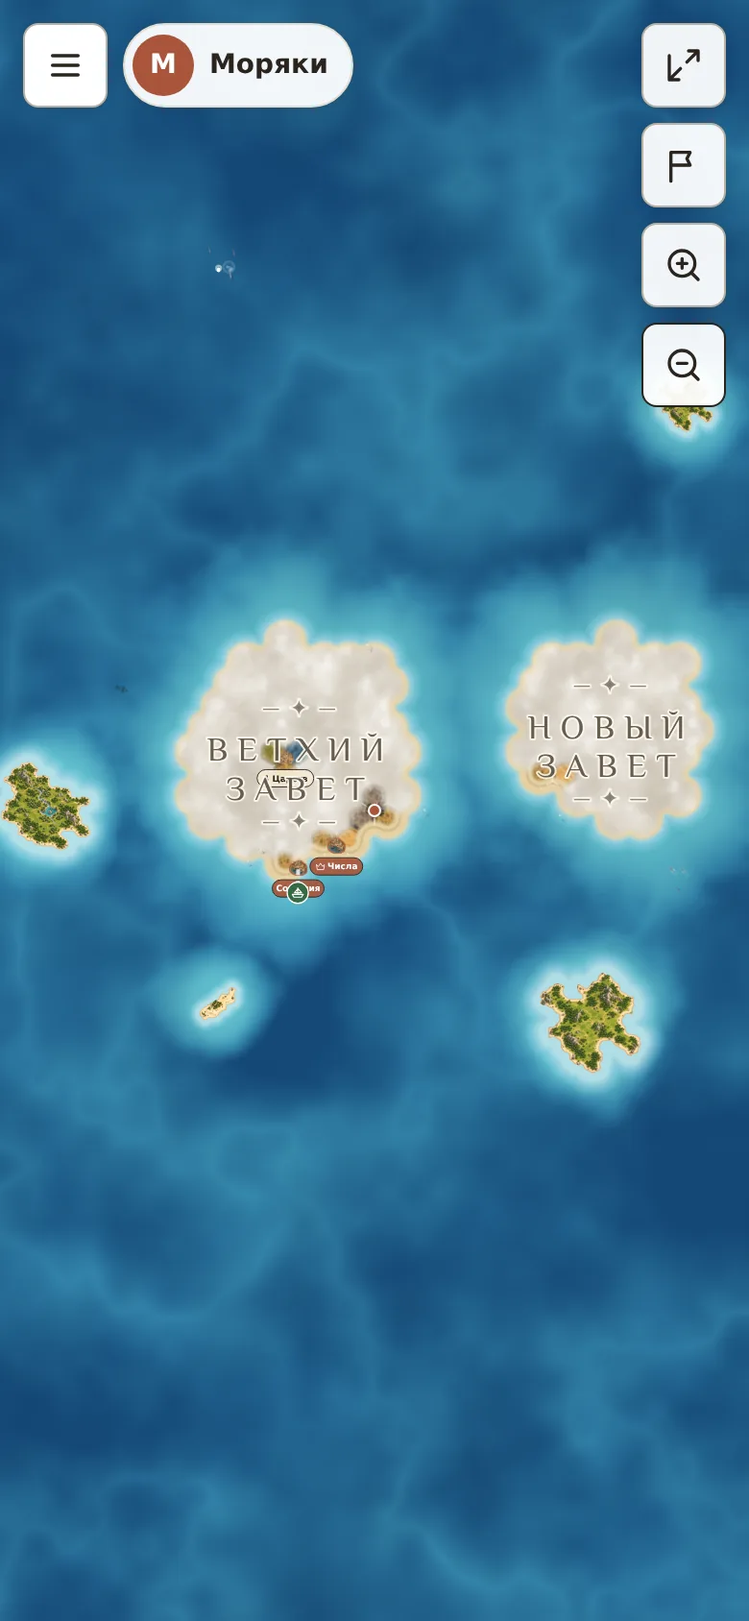
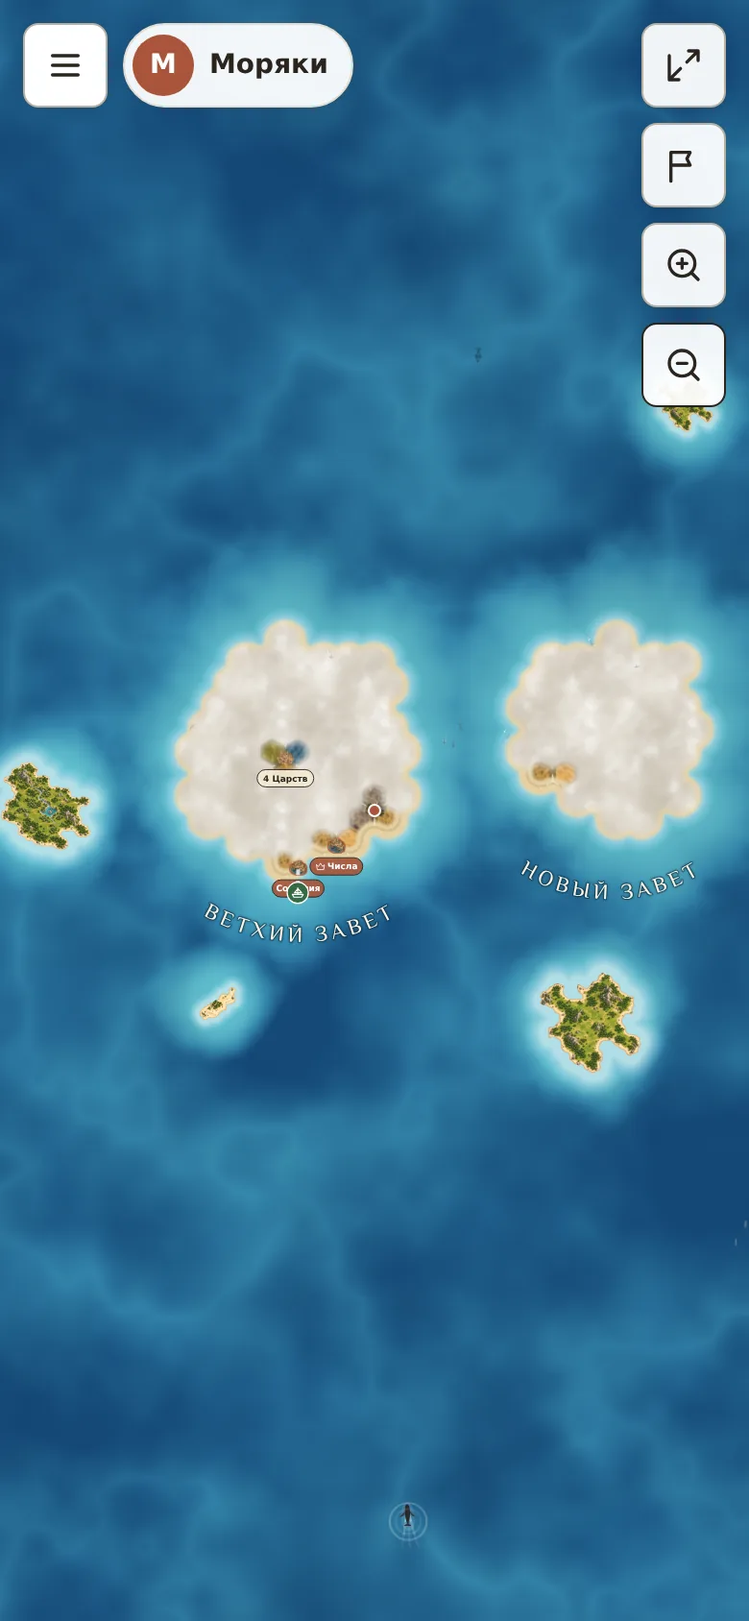
Экран игры администратора: карта во весь экран, разделы — кнопки, содержимое — попап над картой
- GamePage: карта заполняет экран (без шапки сайта), слева (на телефоне —
  внизу) док с кнопками Обзор / Команды / Дела / Проверка / Настройки со
  счётчиками; раздел открывается попапом (Sheet lg) над картой; раздел в hash;
  черновик без карты сразу открывает «Обзор».
- AdminMap fullscreen: «чьими глазами» и обозначения поверх карты; компактная
  история ходов внизу.
- Инструкция «Как играть?»: текст и скриншоты обновлены (правило свежести),
  скрипт скриншотов переведён на новый экран. Документация.

Claude-Session: https://claude.ai/code/session_01GYZTpVpHB6EzyvMrXyiWEP

diff --git a/apps/web/src/pages/GamePage.tsx b/apps/web/src/pages/GamePage.tsx
@@ -1,5 +1,5 @@
 import { useCallback, useEffect, useMemo, useRef, useState } from "react";
-import { useLocation, useNavigate, useParams } from "react-router-dom";
+import { Link, useLocation, useNavigate, useParams } from "react-router-dom";
 import { api, ApiError, type MapEdgeDto, type MapHexDto, type MapNodeDto } from "../lib/api";
 import { AdminMap, type BattleProgress, type CityProgress, type TeamProgress } from "./AdminMap";
 import { Timeline, collectMoves, progressAt } from "./Timeline";
@@ -17,7 +17,7 @@ import { RecipientsBlock } from "./RecipientsBlock";
 import { Icon } from "../components/Icon";
 import { Back } from "../components/Back";
 import { Chip } from "../components/Chip";
-import { Tabs } from "../components/Tabs";
+import { Sheet } from "../components/Sheet";
 import { EmptyState, ErrorState, LoadingState } from "../components/State";
 import { PushToggle } from "../components/PushToggle";
 import { ActionMenu } from "../components/ActionMenu";
@@ -31,16 +31,19 @@ const TABS: Tab[] = ["overview", "map", "teams", "deeds", "review", "settings"];
 type Progress = { teams: TeamProgress[]; startedAt: string | null; cities: CityProgress[]; battles: BattleProgress[] };
 
 /**
- * Страница игры для администратора: шапка (название, статус) и шесть вкладок.
- * Вкладка хранится в hash (#teams), чтобы переживать перезагрузку и ссылки.
+ * Страница игры для администратора: карта во весь экран, разделы (обзор, команды, дела, проверка, настройки) —
+ * кнопки сбоку (на телефоне — снизу), содержимое раздела открывается попапом над картой (решение владельца 15.09).
+ * Раздел хранится в hash (#teams), чтобы переживать перезагрузку и ссылки.
  */
 export function GamePage() {
   const { id = "" } = useParams();
   const location = useLocation();
   const navigate = useNavigate();
   const { confirm, notify } = useUi();
-  const tab: Tab = (TABS as string[]).includes(location.hash.slice(1)) ? (location.hash.slice(1) as Tab) : "overview";
-  const setTab = (next: Tab) => navigate({ hash: next === "overview" ? "" : next }, { replace: true });
+  // Экран — карта во весь экран (решение владельца 15.09); раздел из hash (#teams) открывается попапом над картой.
+  const tab: Tab = (TABS as string[]).includes(location.hash.slice(1)) ? (location.hash.slice(1) as Tab) : "map";
+  const setTab = (next: Tab) => navigate({ hash: next === "map" ? "" : next }, { replace: true });
+  const [screenEl, setScreenEl] = useState<HTMLDivElement | null>(null);
 
   const [game, setGame] = useState<GameDto | null>(null);
   const [hexes, setHexes] = useState<MapHexDto[]>([]);
@@ -84,6 +87,9 @@ export function GamePage() {
 
   const loadAll = useCallback(() => { load().catch((e) => setError(e instanceof ApiError ? e.message : t("Ошибка сети"))); void loadProgress(); }, [load, loadProgress]);
   useEffect(() => { loadAll(); }, [loadAll]);
+  // Черновик без карты: сразу показать чек-лист подготовки (обзор), карту всё равно ещё смотреть не на что.
+  const autoOpened = useRef(false);
+  useEffect(() => { if (game && game.status === "DRAFT" && hexes.length === 0 && !autoOpened.current && !location.hash) { autoOpened.current = true; setTab("overview"); } }, [game, hexes.length]); // eslint-disable-line react-hooks/exhaustive-deps
   useEffect(() => { if (game) void loadCounts(game.status); }, [game?.status, version, loadCounts]); // eslint-disable-line react-hooks/exhaustive-deps
 
   async function generate() {
@@ -119,99 +125,109 @@ export function GamePage() {
   const hasMap = hexes.length > 0;
   const refresh = () => { void load(); void loadProgress(); };
 
+  const sections: Array<{ key: Tab; label: string; icon: string; count?: number; hot?: boolean }> = [
+    { key: "overview", label: t("Обзор"), icon: "crown" },
+    { key: "teams", label: t("Команды"), icon: "users", count: counts.teams },
+    { key: "deeds", label: t("Дела"), icon: "scroll", count: counts.deeds },
+    { key: "review", label: t("Проверка"), icon: "check", count: reviewCount, hot: true },
+    { key: "settings", label: t("Настройки"), icon: "settings" },
+  ];
+  const open = tab === "map" ? null : tab;
+  const closePopup = () => setTab("map");
+  const titleOf = sections.find((s) => s.key === open);
+
   return (
-    <>
-      <Back to="/" label={t("Мои игры")} />
-      <div className="page-head">
-        <h1>
-          {game.name}
-          <Chip tone={draft ? "warn" : active ? "ok" : "neutral"}>{draft ? t("черновик") : active ? t("идёт") : t("завершена")}</Chip>
-        </h1>
-        {canDelete && <ActionMenu label={t("Ещё")} items={[{ label: t("Удалить игру"), icon: "trash", danger: true, onSelect: () => void removeGame() }]} />}
-      </div>
-
-      <Tabs<Tab>
-        stacked sticky ariaLabel={t("Разделы игры")} value={tab} onChange={setTab}
-        items={[
-          { key: "overview", label: t("Обзор"), icon: "crown" },
-          { key: "map", label: t("Карта"), icon: "map" },
-          { key: "teams", label: t("Команды"), icon: "users", count: counts.teams },
-          { key: "deeds", label: t("Дела"), icon: "scroll", count: counts.deeds },
-          { key: "review", label: t("Проверка"), icon: "check", count: reviewCount, hot: true },
-          { key: "settings", label: t("Настройки"), icon: "settings" },
-        ]}
-      />
-
-      {tab === "overview" && (
-        <div key="overview">
-          {draft && (
-            <>
-              <StartBlock
-                gameId={game.id} version={version} onStarted={refresh}
-                hasMap={hasMap} nodeCount={nodes.length} cityCount={nodes.filter((n) => n.kind === "CITY").length} stats={stats}
-                onGenerate={() => void generate()} generating={busy} generateError={genError}
-                teams={counts.teams} teamCount={game.teamCount} deeds={counts.deeds} recipients={counts.recipients}
-                goTo={setTab} goToRecipients={() => recipientsRef.current?.scrollIntoView({ behavior: "smooth", block: "start" })}
-              />
-              <div ref={recipientsRef}><RecipientsBlock gameId={game.id} status={game.status} version={version} /></div>
-            </>
-          )}
-          {active && (
-            <>
-              <div className="card">
-                <div className="card-head"><h2><span className="ico"><Icon name="check" /></span>{t("Сейчас")}</h2></div>
-                <div className="summary-tiles">
-                  <a href="#review" onClick={(e) => { e.preventDefault(); setTab("review"); }}>
-                    <span className={"sum-value" + (reviewCount ? " hot" : "")}>{reviewCount}</span>
-                    <span className="sum-label"><Icon name="check" />{t("ждёт проверки")}</span>
-                  </a>
-                  <a href="#review" onClick={(e) => { e.preventDefault(); setTab("review"); }}>
-                    <span className="sum-value">{trials}</span>
-                    <span className="sum-label"><Icon name="wave" />{t("идёт испытаний")}</span>
-                  </a>
-                </div>
-              </div>
-              <FinishBlock gameId={game.id} status={game.status} version={version} onChanged={refresh} between={<RecipientsBlock gameId={game.id} status={game.status} version={version} />} />
-            </>
-          )}
-          {game.status === "FINISHED" && <FinishBlock gameId={game.id} status={game.status} version={version} onChanged={refresh} />}
-        </div>
-      )}
-
-      {tab === "map" && (
-        <div key="map">
-          {hasMap ? (
-            <div className="card map-card">
-              <AdminMap gameId={game.id} hexes={hexes} nodes={nodes} edges={edges} progress={shown} cities={shownCities} battles={at ? [] : progress?.battles ?? null} version={version} onReview={() => setTab("review")} />
-              {progress?.startedAt && <Timeline moves={moves} startedAt={progress.startedAt} at={at} onChange={setAt} />}
-            </div>
-          ) : (
+    <div className="admin-screen" ref={setScreenEl}>
+      <div className="admin-map-area">
+        {hasMap ? (
+          <AdminMap fullscreen gameId={game.id} hexes={hexes} nodes={nodes} edges={edges} progress={shown} cities={shownCities} battles={at ? [] : progress?.battles ?? null} version={version} onReview={() => setTab("review")} />
+        ) : (
+          <div className="admin-empty">
             <div className="card">
               <EmptyState icon="map" text={draft ? t("Карта ещё не создана.") : t("Карты нет.")} action={draft ? <button type="button" onClick={() => void generate()} disabled={busy}><Icon name="refresh" />{t("Сгенерировать карту")}</button> : undefined} />
               {genError && <p className="error">{genError}</p>}
             </div>
-          )}
-        </div>
-      )}
+          </div>
+        )}
+        {hasMap && progress?.startedAt && <div className="admin-timeline"><Timeline moves={moves} startedAt={progress.startedAt} at={at} onChange={setAt} /></div>}
+      </div>
 
-      {tab === "teams" && <div key="teams"><TeamsBlock gameId={game.id} teamCount={game.teamCount} status={game.status} version={version} onChange={bump} goToSettings={() => setTab("settings")} /></div>}
-      {tab === "deeds" && <div key="deeds"><DeedsBlock gameId={game.id} version={version} onChange={bump} /></div>}
-      {tab === "review" && (active ? (
-        <div key="review">
-          <SubmissionsBlock gameId={game.id} version={version} currency={game.settings.donationCurrency} onDecided={() => { void loadProgress(); bump(); }} />
-          <BattlesBlock gameId={game.id} version={version} onDecided={() => { void loadProgress(); bump(); }} />
-          <PassagesBlock gameId={game.id} version={version} />
+      <div className="admin-top">
+        <Link to="/" className="btn secondary icon hud-btn" aria-label={t("Мои игры")} title={t("Мои игры")}><Icon name="back" /></Link>
+        <div className="admin-title" title={game.name}>
+          <span className="name">{game.name}</span>
+          <Chip tone={draft ? "warn" : active ? "ok" : "neutral"}>{draft ? t("черновик") : active ? t("идёт") : t("завершена")}</Chip>
         </div>
-      ) : (
-        <div className="card"><EmptyState icon="check" text={draft ? t("Появится после старта игры.") : t("Игра завершена: проверять больше нечего.")} /></div>
-      ))}
-      {tab === "settings" && (
-        <div key="settings">
-          <SettingsBlock key={game.teamCount + ":" + game.name} game={game} onSaved={() => { void load(); bump(); }} />
-          <AdminsBlock gameId={game.id} version={version} />
-          <PushToggle compact />
-        </div>
+        {canDelete && <ActionMenu label={t("Ещё")} items={[{ label: t("Удалить игру"), icon: "trash", danger: true, onSelect: () => void removeGame() }]} />}
+      </div>
+
+      <nav className="admin-dock" aria-label={t("Разделы игры")}>
+        {sections.map((s) => (
+          <button key={s.key} type="button" className={"dock-btn" + (open === s.key ? " on" : "")} aria-pressed={open === s.key} onClick={() => setTab(open === s.key ? "map" : s.key)}>
+            <Icon name={s.icon} />
+            <span className="lbl">{s.label}</span>
+            {s.count ? <span className={"badge" + (s.hot ? " hot" : "")}>{s.count}</span> : null}
+          </button>
+        ))}
+      </nav>
+
+      {open && screenEl && (
+        <Sheet size="lg" container={screenEl} className="admin-popup" onClose={closePopup} head={<h2 className="row"><span className="ico"><Icon name={titleOf?.icon ?? "map"} /></span>{titleOf?.label}</h2>}>
+          {open === "overview" && (
+            <div key="overview">
+              {draft && (
+                <>
+                  <StartBlock
+                    gameId={game.id} version={version} onStarted={refresh}
+                    hasMap={hasMap} nodeCount={nodes.length} cityCount={nodes.filter((n) => n.kind === "CITY").length} stats={stats}
+                    onGenerate={() => void generate()} generating={busy} generateError={genError}
+                    teams={counts.teams} teamCount={game.teamCount} deeds={counts.deeds} recipients={counts.recipients}
+                    goTo={setTab} goToRecipients={() => recipientsRef.current?.scrollIntoView({ behavior: "smooth", block: "start" })}
+                  />
+                  <div ref={recipientsRef}><RecipientsBlock gameId={game.id} status={game.status} version={version} /></div>
+                </>
+              )}
+              {active && (
+                <>
+                  <div className="card">
+                    <div className="card-head"><h2><span className="ico"><Icon name="check" /></span>{t("Сейчас")}</h2></div>
+                    <div className="summary-tiles">
+                      <a href="#review" onClick={(e) => { e.preventDefault(); setTab("review"); }}>
+                        <span className={"sum-value" + (reviewCount ? " hot" : "")}>{reviewCount}</span>
+                        <span className="sum-label"><Icon name="check" />{t("ждёт проверки")}</span>
+                      </a>
+                      <a href="#review" onClick={(e) => { e.preventDefault(); setTab("review"); }}>
+                        <span className="sum-value">{trials}</span>
+                        <span className="sum-label"><Icon name="wave" />{t("идёт испытаний")}</span>
+                      </a>
+                    </div>
+                  </div>
+                  <FinishBlock gameId={game.id} status={game.status} version={version} onChanged={refresh} between={<RecipientsBlock gameId={game.id} status={game.status} version={version} />} />
+                </>
+              )}
+              {game.status === "FINISHED" && <FinishBlock gameId={game.id} status={game.status} version={version} onChanged={refresh} />}
+            </div>
+          )}
+          {open === "teams" && <div key="teams"><TeamsBlock gameId={game.id} teamCount={game.teamCount} status={game.status} version={version} onChange={bump} goToSettings={() => setTab("settings")} /></div>}
+          {open === "deeds" && <div key="deeds"><DeedsBlock gameId={game.id} version={version} onChange={bump} /></div>}
+          {open === "review" && (active ? (
+            <div key="review">
+              <SubmissionsBlock gameId={game.id} version={version} currency={game.settings.donationCurrency} onDecided={() => { void loadProgress(); bump(); }} />
+              <BattlesBlock gameId={game.id} version={version} onDecided={() => { void loadProgress(); bump(); }} />
+              <PassagesBlock gameId={game.id} version={version} />
+            </div>
+          ) : (
+            <div className="card"><EmptyState icon="check" text={draft ? t("Появится после старта игры.") : t("Игра завершена: проверять больше нечего.")} /></div>
+          ))}
+          {open === "settings" && (
+            <div key="settings">
+              <SettingsBlock key={game.teamCount + ":" + game.name} game={game} onSaved={() => { void load(); bump(); }} />
+              <AdminsBlock gameId={game.id} version={version} />
+              <PushToggle compact />
+            </div>
+          )}
+        </Sheet>
       )}
-    </>
+    </div>
   );
 }

diff --git a/apps/web/src/styles/admin.css b/apps/web/src/styles/admin.css
@@ -202,3 +202,41 @@ details.legend .items span { display: inline-flex; align-items: center; gap: var
 /* Книги дела: набранные книги — снимаемые фишки. */
 .chips { display: flex; flex-wrap: wrap; gap: var(--sp-2); }
 .chips .chip-btn { display: inline-flex; align-items: center; gap: var(--sp-1); min-height: 30px; padding: 0 var(--sp-3); border-radius: var(--r-full); border: 1px solid var(--border); background: var(--surface); color: var(--text); font-size: var(--fs-sm); font-weight: 500; }
+
+/* Экран игры администратора: карта во весь экран, разделы — кнопки сбоку (на телефоне снизу), содержимое — попап над картой. */
+.admin-screen { position: fixed; inset: 0; background: var(--map-bg); overscroll-behavior: none; touch-action: none; }
+.admin-map-area { position: absolute; inset: 0; }
+.admin-map.full { position: absolute; inset: 0; }
+.admin-map.full .mapwrap { position: absolute; inset: 0; height: auto; min-height: 0; border: 0; border-radius: 0; }
+.admin-map.full .view-as { position: absolute; left: 50%; top: calc(var(--sp-3) + var(--safe-top) + 60px); transform: translateX(-50%); z-index: 5; max-width: min(70vw, 720px); padding: var(--sp-1); background: color-mix(in srgb, var(--surface) 88%, transparent); border-radius: var(--r-full); box-shadow: var(--shadow-1); }
+.admin-map.full .view-as-hint { position: absolute; left: 50%; transform: translateX(-50%); top: calc(var(--sp-3) + var(--safe-top) + 108px); z-index: 5; margin: 0; padding: var(--sp-1) var(--sp-3); background: color-mix(in srgb, var(--surface) 90%, transparent); border-radius: var(--r-sm); max-width: min(80vw, 560px); }
+.admin-map.full details.legend { position: absolute; left: calc(var(--sp-3) + var(--safe-left) + 76px); bottom: calc(var(--sp-3) + var(--safe-bottom)); z-index: 5; margin: 0; padding: 0 var(--sp-3); background: color-mix(in srgb, var(--surface) 90%, transparent); border-radius: var(--r-sm); box-shadow: var(--shadow-1); max-width: min(60vw, 520px); }
+.admin-map.full details.legend .items { padding-bottom: var(--sp-2); }
+.admin-empty { position: absolute; inset: 0; display: flex; align-items: center; justify-content: center; padding: var(--sp-4); }
+.admin-empty .card { max-width: 420px; width: 100%; }
+.admin-timeline { position: absolute; left: 50%; transform: translateX(-50%); bottom: calc(var(--sp-3) + var(--safe-bottom)); z-index: 5; width: min(92vw, 440px); padding: var(--sp-2) var(--sp-3); background: color-mix(in srgb, var(--surface) 92%, transparent); border-radius: var(--r-md); box-shadow: var(--shadow-1); }
+.admin-timeline .timeline { margin-top: 0; gap: var(--sp-1); }
+.admin-timeline .timeline h3, .admin-timeline .timeline .row.between { display: none; }
+.admin-timeline .timeline .tl-now { padding: var(--sp-1) var(--sp-2); font-size: var(--fs-sm); }
+.admin-top { position: absolute; left: calc(var(--sp-3) + var(--safe-left)); top: calc(var(--sp-3) + var(--safe-top)); z-index: 6; display: flex; align-items: center; gap: var(--sp-2); max-width: calc(100% - 140px); }
+.admin-title { display: flex; align-items: center; gap: var(--sp-2); min-height: var(--touch); min-width: 0; padding: 0 var(--sp-3); border-radius: var(--r-full); background: color-mix(in srgb, var(--surface) 94%, transparent); box-shadow: var(--shadow-1); font-weight: 700; }
+.admin-title .name { overflow: hidden; text-overflow: ellipsis; white-space: nowrap; }
+.admin-dock { position: absolute; z-index: 6; display: flex; gap: var(--sp-2); left: calc(var(--sp-3) + var(--safe-left)); top: calc(var(--sp-3) + var(--safe-top) + 60px); flex-direction: column; }
+.dock-btn { position: relative; display: flex; flex-direction: column; align-items: center; justify-content: center; gap: 3px; width: 64px; min-height: 58px; padding: 6px 4px; border-radius: 16px; border: 1px solid transparent; background: color-mix(in srgb, var(--surface) 94%, transparent); color: var(--text); box-shadow: var(--shadow-1); font: 500 11px/1.1 var(--font); }
+.dock-btn .i { width: 22px; height: 22px; color: var(--accent-ink); }
+.dock-btn:hover { background: var(--surface); }
+.dock-btn.on { background: var(--accent-ink); color: var(--on-accent); }
+.dock-btn.on .i { color: var(--on-accent); }
+.dock-btn .badge { position: absolute; top: -5px; right: -5px; min-width: 20px; height: 20px; padding: 0 6px; border-radius: 10px; background: var(--surface-2, var(--surface)); border: 1px solid var(--border); color: var(--text); font: 700 11px/18px var(--font); text-align: center; }
+.dock-btn .badge.hot { background: var(--danger, #b3402a); border-color: transparent; color: #fff; }
+.admin-popup.overlay-backdrop { z-index: 8; }
+.admin-popup .overlay-body .card { box-shadow: none; }
+@media (max-width: 767px) {
+  .admin-dock { top: auto; left: 50%; transform: translateX(-50%); bottom: calc(var(--sp-2) + var(--safe-bottom)); flex-direction: row; padding: var(--sp-1); background: color-mix(in srgb, var(--surface) 90%, transparent); border-radius: 22px; box-shadow: var(--shadow-2); }
+  .dock-btn { width: 62px; min-height: 52px; box-shadow: none; background: transparent; }
+  .admin-timeline { bottom: calc(var(--sp-2) + var(--safe-bottom) + 76px); }
+  .admin-map.full details.legend { left: calc(var(--sp-3) + var(--safe-left)); bottom: calc(var(--sp-2) + var(--safe-bottom) + 76px); display: none; }
+  .admin-map.full .view-as { left: calc(var(--sp-3) + var(--safe-left)); transform: none; top: calc(var(--sp-3) + var(--safe-top) + 52px); max-width: calc(100vw - 110px); }
+  .admin-map.full .view-as-hint { left: calc(var(--sp-3) + var(--safe-left)); transform: none; top: calc(var(--sp-3) + var(--safe-top) + 100px); max-width: calc(100vw - 110px); }
+  .admin-top { max-width: calc(100% - 2 * var(--sp-3)); }
+}

diff --git a/apps/web/src/pages/AdminMap.tsx b/apps/web/src/pages/AdminMap.tsx
@@ -29,7 +29,7 @@ type TeamLite = { id: string; name: string; color: string };
  * Карта администратора: вся карта без тумана, города на перекрёстках, пройденные стороны цветами команд (половинками, если прошли двое).
  * Панель перекрёстка — Sheet поверх карты; тестовые действия свёрнуты внутри неё.
  */
-export function AdminMap({ gameId, hexes, nodes, edges, progress, cities, battles, version, onReview }: { gameId: string; hexes: MapHexDto[]; nodes: MapNodeDto[]; edges: MapEdgeDto[]; progress: TeamProgress[] | null; cities: CityProgress[] | null; battles: BattleProgress[] | null; version: number; onReview?: () => void }) {
+export function AdminMap({ gameId, hexes, nodes, edges, progress, cities, battles, version, onReview, fullscreen = false }: { /** Во весь экран (страница игры): карта заполняет контейнер, переключатель «чьими глазами» и легенда — поверх. */ fullscreen?: boolean; gameId: string; hexes: MapHexDto[]; nodes: MapNodeDto[]; edges: MapEdgeDto[]; progress: TeamProgress[] | null; cities: CityProgress[] | null; battles: BattleProgress[] | null; version: number; onReview?: () => void }) {
   const size = HEX_SIZE;
   const bounds = useMemo(() => (hexes.length ? fieldBounds(hexes, size) : null), [hexes, size]);
   const vp = useViewport(bounds);
@@ -75,10 +75,22 @@ export function AdminMap({ gameId, hexes, nodes, edges, progress, cities, battle
   }, [viewAs, gameId, version]);
   if (!bounds) return null;
   const viewedTeam = viewAs ? teamById.get(viewAs) : null;
+  const legend = (
+        <details className="legend">
+          <summary><Icon name="info" />{t("Обозначения")}<Icon name="chevron-down" /></summary>
+          <div className="items">
+            {progress?.map((tm) => <span key={tm.id}><i className="sw dot" style={{ ["--c" as string]: tm.color }} />{tm.name}</span>)}
+            <span><i className="sw line" />{t("пройденная сторона")}</span>
+            <span><i className="sw spot" />{t("открытый перекрёсток")}</span>
+            <span><i className="sw ring" />{t("город с владельцем")}</span>
+            <span><i className="sw ring bad" />{t("идёт испытание")}</span>
+          </div>
+        </details>
+  );
 
   return (
     <>
-      <div className="admin-map" ref={setWrapEl}>
+      <div className={"admin-map" + (fullscreen ? " full" : "")} ref={setWrapEl}>
         {progress && progress.length > 0 && (
           <div className="view-as" role="tablist" aria-label={t("Чьими глазами")}>
             <button type="button" role="tab" aria-selected={!viewAs} className={"chip-btn" + (!viewAs ? " on" : "")} onClick={() => setViewAs(null)}><Icon name="crown" />{t("Администратор")}</button>
@@ -182,17 +194,9 @@ export function AdminMap({ gameId, hexes, nodes, edges, progress, cities, battle
         {!viewAs && selected && wrapEl && (selected.kind === "CITY"
           ? <CitySheet gameId={gameId} node={selected} version={version} container={wrapEl} revealed={revealedBy.get(selected.key) ?? []} battle={battleAt.get(selected.key) ?? null} teamById={teamById} onClose={close} onReview={onReview} />
           : <NodeSheet gameId={gameId} node={selected} container={wrapEl} teams={progress ?? []} revealed={revealedBy.get(selected.key) ?? []} onClose={close} />)}
+        {fullscreen && legend}
       </div>
-      <details className="legend">
-        <summary><Icon name="info" />{t("Обозначения")}<Icon name="chevron-down" /></summary>
-        <div className="items">
-          {progress?.map((tm) => <span key={tm.id}><i className="sw dot" style={{ ["--c" as string]: tm.color }} />{tm.name}</span>)}
-          <span><i className="sw line" />{t("пройденная сторона")}</span>
-          <span><i className="sw spot" />{t("открытый перекрёсток")}</span>
-          <span><i className="sw ring" />{t("город с владельцем")}</span>
-          <span><i className="sw ring bad" />{t("идёт испытание")}</span>
-        </div>
-      </details>
+      {!fullscreen && legend}
     </>
   );
 }

diff --git a/apps/web/src/lib/en/player.ts b/apps/web/src/lib/en/player.ts
@@ -131,7 +131,8 @@ export const PLAYER: Record<string, string> = {
   "Меню команды: дела, испытания, положение команд, состав.": "Team menu: deeds, trials, standings, roster.",
   "Для администратора": "For the administrator",
   "Администратор создаёт игру, генерирует карту (можно сколько угодно раз, пока не понравится), создаёт команды и раздаёт ссылки-приглашения капитанам и участникам, заполняет набор дел (есть стандартный) и стартует игру.": "The administrator creates the game, generates the map (as many times as needed until it looks right), creates teams and hands out invitation links to captains and members, fills in the set of deeds (a default set is available) and starts the game.",
-  "Во время игры администратор проверяет сдачи дел и видео испытаний во вкладке «Проверка», следит за положением команд в «Обзоре» и на карте, при необходимости назначает города и завершает игру.": "During the game the administrator reviews deed submissions and trial videos in the “Review” tab, follows the standings in the “Overview” and on the map, assigns cities when needed and finishes the game.",
+  "У администратора карта во весь экран, а разделы — кнопки сбоку (на телефоне снизу): Обзор, Команды, Дела, Проверка, Настройки; нажатие открывает раздел над картой. Во время игры администратор проверяет сдачи дел и видео испытаний в «Проверке», следит за положением команд в «Обзоре» и на карте, при необходимости назначает города и завершает игру.": "The administrator sees the map full screen, with the sections as buttons on the side (at the bottom on a phone): Overview, Teams, Deeds, Review, Settings; tapping one opens the section over the map. During the game the administrator reviews deed submissions and trial videos in “Review”, follows the standings in the “Overview” and on the map, assigns cities when needed and finishes the game.",
+  "Карта администратора: все города, номера, пути команд; кнопки разделов слева.": "Administrator’s map: all cities, numbers, team routes; section buttons on the left.",
   "Пароли участников администратор не видит и не меняет: восстановление — только через почту самого участника.": "The administrator never sees or changes members’ passwords: recovery goes only through the member’s own email.",
   "Обзор игры: что ждёт проверки, положение команд, адресаты конвертов.": "Game overview: what awaits review, standings, envelope recipients.",
   "Команды и приглашения.": "Teams and invitations.", "Набор дел игры.": "The game’s set of deeds.",

diff --git a/apps/web/src/pages/HowToPlayPage.tsx b/apps/web/src/pages/HowToPlayPage.tsx
@@ -59,14 +59,14 @@ export function HowToPlayPage() {
     ], figs: [{ src: "menu", caption: t("Меню команды: дела, испытания, положение команд, состав.") }] },
     { icon: "crown", title: t("Для администратора"), paras: [
       t("Администратор создаёт игру, генерирует карту (можно сколько угодно раз, пока не понравится), создаёт команды и раздаёт ссылки-приглашения капитанам и участникам, заполняет набор дел (есть стандартный) и стартует игру."),
-      t("Во время игры администратор проверяет сдачи дел и видео испытаний во вкладке «Проверка», следит за положением команд в «Обзоре» и на карте, при необходимости назначает города и завершает игру."),
+      t("У администратора карта во весь экран, а разделы — кнопки сбоку (на телефоне снизу): Обзор, Команды, Дела, Проверка, Настройки; нажатие открывает раздел над картой. Во время игры администратор проверяет сдачи дел и видео испытаний в «Проверке», следит за положением команд в «Обзоре» и на карте, при необходимости назначает города и завершает игру."),
       t("Пароли участников администратор не видит и не меняет: восстановление — только через почту самого участника."),
     ], figs: [
+      { src: "admin-map", caption: t("Карта администратора: все города, номера, пути команд; кнопки разделов слева."), wide: true },
       { src: "admin-overview", caption: t("Обзор игры: что ждёт проверки, положение команд, адресаты конвертов."), wide: true },
       { src: "admin-teams", caption: t("Команды и приглашения."), wide: true },
       { src: "admin-deeds", caption: t("Набор дел игры."), wide: true },
       { src: "admin-review", caption: t("Проверка: сдачи дел, испытания, проходы."), wide: true },
-      { src: "admin-map", caption: t("Карта администратора: все города, номера, пути команд."), wide: true },
     ] },
   ];
   return (

diff --git a/apps/web/src/pages/Layout.tsx b/apps/web/src/pages/Layout.tsx
@@ -4,12 +4,13 @@ import { t } from "../lib/i18n";
 import { ActionMenu } from "../components/ActionMenu";
 import { Icon } from "../components/Icon";
 
-/** Шапка: логотип и один элемент пользователя с меню (Аккаунт · Аналитика · Выйти). На экране карты шапки нет. */
+/** Шапка: логотип и один элемент пользователя с меню (Аккаунт · Аналитика · Выйти). На экранах карты (команда, игра администратора) шапки нет. */
 export function Layout() {
   const { user, logout } = useAuth();
   const navigate = useNavigate();
   const name = user?.displayName ?? user?.nickname ?? "";
-  const bare = /^\/games\/[^/]+\/team$/.test(useLocation().pathname);
+  const path = useLocation().pathname;
+  const bare = /^\/games\/[^/]+(\/team)?$/.test(path) && path !== "/games/new";
   if (bare) return <Outlet />;
   return (
     <>

diff --git a/docs/LANDS_OF_THE_WORD.md b/docs/LANDS_OF_THE_WORD.md
@@ -628,6 +628,10 @@ npm run typecheck
 ---
 
 
+### 9.y Экран игры администратора (решение владельца 15.09)
+
+Карта во весь экран, без шапки сайта (как у команды). Слева (на телефоне — снизу, док) кнопки разделов: Обзор, Команды, Дела, Проверка, Настройки — со счётчиками; нажатие открывает содержимое раздела попапом над картой (`Sheet` размера lg; на телефоне — лист снизу). Сверху слева — назад и название игры со статусом, сверху по центру — «чьими глазами» (администратор / команды), справа — масштаб, снизу по центру — компактная история ходов, снизу слева — обозначения. Раздел хранится в hash (`#teams`) и открывается по ссылке; черновик без карты сразу открывает «Обзор» с чек-листом подготовки. Реализация: `pages/GamePage.tsx`, `AdminMap` с `fullscreen`, стили `.admin-screen`, `.admin-dock`, `.admin-popup` в `admin.css`.
+
 ### 9.x Страница «Как играть?» (решение владельца 15.09)
 
 Кнопка «Как играть?» есть на экране входа, на главной («Мои игры») и в меню команды; открывает `/how-to-play` — полную инструкцию для игрока и администратора со скриншотами настоящих экранов (`apps/web/src/pages/HowToPlayPage.tsx`, картинки `apps/web/public/img/guide/*.webp`). **Правило свежести:** при изменении экранов игры текст инструкции и картинки обновляются в том же коммите; картинки перегенерирует `node scripts/guide-shots.mjs` (Playwright по локальному серверу с тестовыми данными; ники и пароль тестовых аккаунтов — только в переменных окружения, в репозитории их нет), затем `python3 scripts/guide-webp.py` сжимает их в webp.
